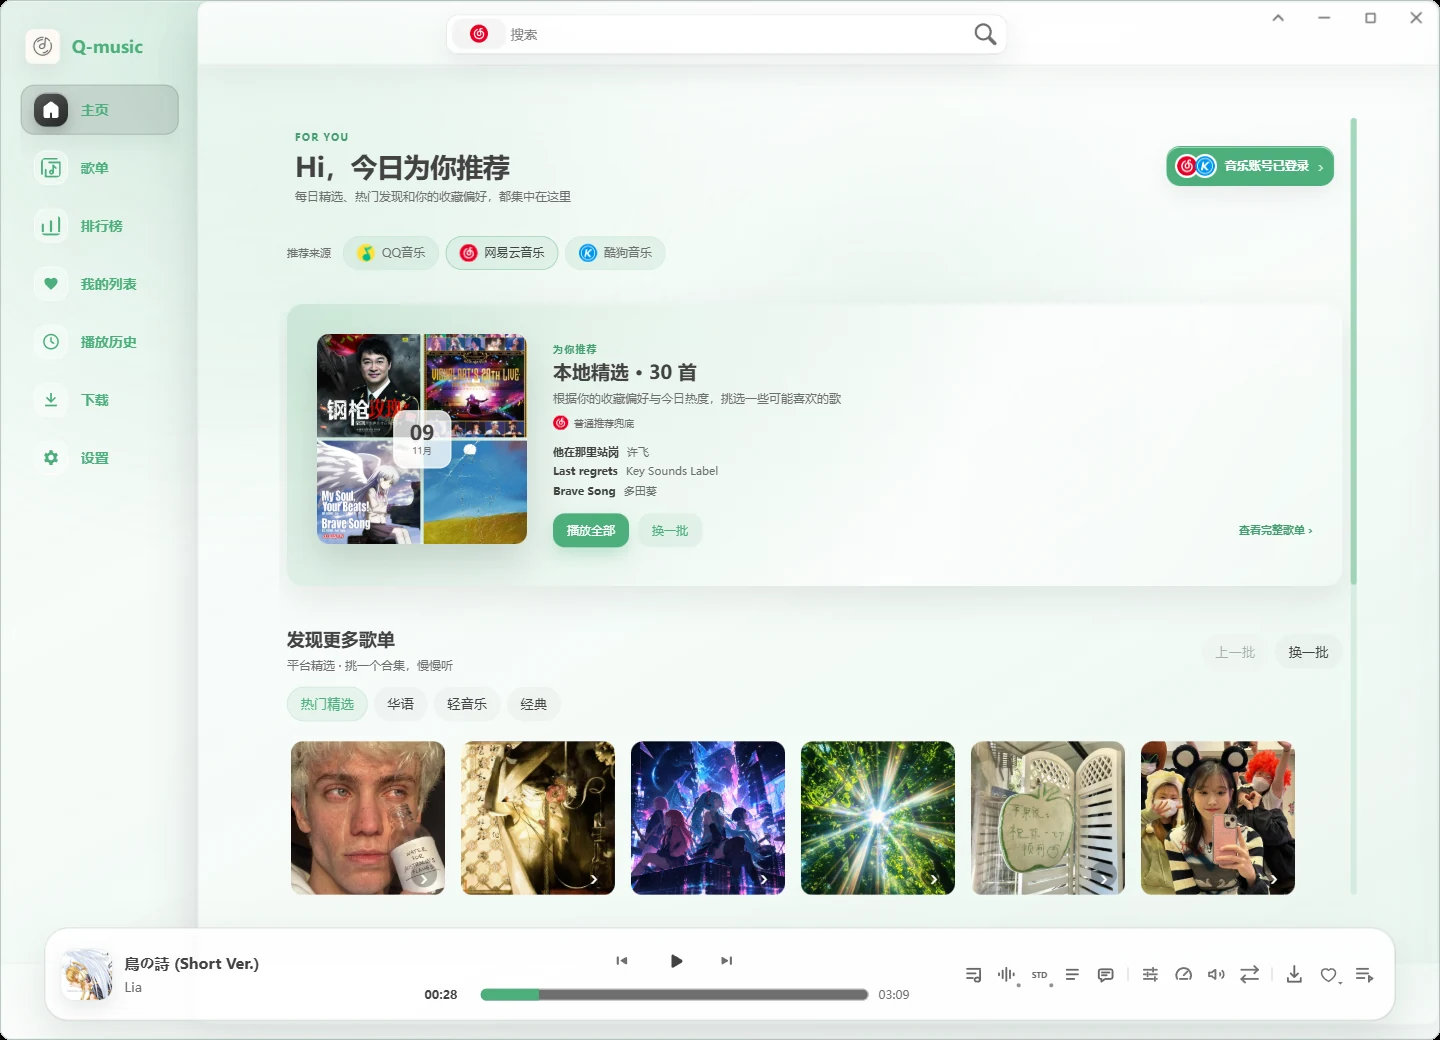
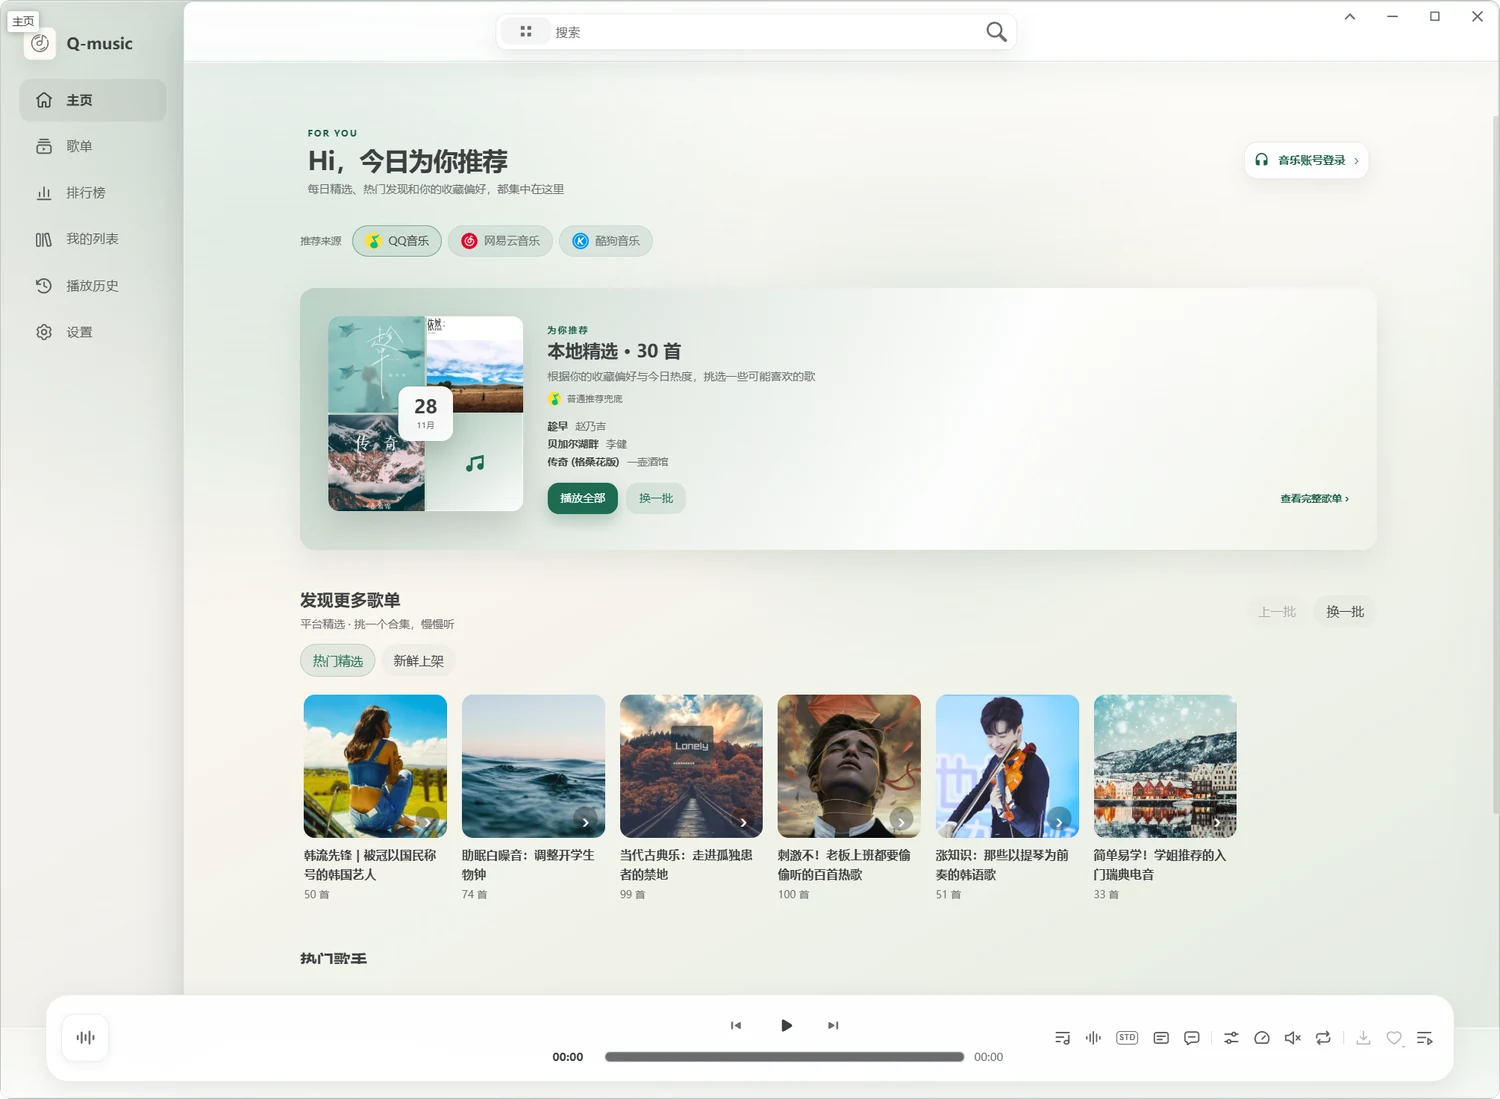
docs: refresh README with desktop and Android screenshots

diff --git a/README.md b/README.md
@@ -4,7 +4,6 @@
 
 <h1 align="center">Q-music</h1>
 
-<p align="center">把喜欢的音乐放在一起。</p>
 <p align="center">基于 LX Music 二次开发，支持 Windows、macOS、Arch Linux 与 Android。</p>
 
 <p align="center">
@@ -16,85 +15,87 @@
 
 <p align="center">
   <a href="https://github.com/Nshpiter/Q-music/releases/latest"><strong>下载最新版</strong></a> ·
-  <a href="#界面预览">界面预览</a> ·
+  <a href="#界面预览">桌面预览</a> ·
+  <a href="#手机上的-q-music">安卓预览</a> ·
   <a href="#开始使用">开始使用</a> ·
   <a href="./publish/changeLog.md">更新日志</a> ·
   <a href="https://github.com/Nshpiter/Q-music/issues">反馈问题</a>
 </p>
 
-Q-music 是基于 LX Music 二次开发的音乐播放器。可以在这里搜索歌曲、整理歌单，也可以登录自己的 QQ 音乐、网易云音乐或酷狗账号，继续听熟悉的收藏和每日推荐。
-
-第一次使用时，请先导入自己的音源，或添加本地音乐。平台账号用于歌单、推荐和收藏，播放与下载仍需要可用音源。
+Q-music 既能搜索多个平台的歌曲，也能接着听自己在 QQ 音乐、网易云音乐和酷狗收藏的歌单。在线听歌需要导入可用音源，听本地音乐可以直接添加文件或文件夹。
 
 ## 界面预览
 
-**桌面首页 · 每日精选与更多歌单**
+首页可以在三个平台之间切换。登录后，点开每日推荐就能看完整曲目，往下翻还能逛精选歌单和热门歌手。想找一首听过的歌，点搜索框就能接着用上次的搜索记录。
 
-![Q-music 桌面首页：平台推荐、每日精选和歌单发现](./doc/images/desktop-home.webp)
+![桌面首页的平台切换、每日精选和播放栏](./doc/images/desktop-home.webp)
 
-<table>
-  <tr>
-    <td width="50%" align="center"><strong>经典极简 · 封面与双语歌词</strong></td>
-    <td width="50%" align="center"><strong>沉浸歌词 · 封面取色与动态氛围</strong></td>
-  </tr>
-  <tr>
-    <td><img src="./doc/images/desktop-classic.webp" alt="经典播放详情，封面、双语歌词及底部播放控制"></td>
-    <td><img src="./doc/images/desktop-immersive.webp" alt="沉浸播放详情，专辑取色背景与歌词"></td>
-  </tr>
-</table>
+**B 站合集也能当歌单听。** 搜索时切到哔哩哔哩，输入视频名、BV 号或链接。多 P 视频可以先选一集，播放后打开队列就能换集，点下一首会接着播下一 P。公开收藏夹、合集和系列也能导入本地。[B 站音频与导入说明](./docs/bilibili.md)
 
-**Android · 经典与沉浸，两种听歌方式**
+### 播放页与歌词
 
-<p align="center">
-  <img src="./doc/images/mobile-classic.webp" width="300" alt="Android 经典播放页，封面、进度及收藏菜单">
-  <img src="./doc/images/mobile-player.webp" width="300" alt="Android 沉浸播放页，封面、播放控制和收藏入口">
-</p>
+经典极简把唱片和歌词并排放，沉浸氛围会用封面的颜色铺满背景。桌面播放页打开「播放页外观 → 歌词排列」，可以在直排和扇形之间切换，扇形的弧度也能调。双语和逐字高亮取决于歌曲提供的歌词。
+
+![桌面扇形歌词，当前唱句居中高亮，前后歌词沿弧线排列](./doc/images/desktop-fan-lyrics.webp)
 
 <details>
-<summary>展开查看平板设置与导航</summary>
+<summary>对照经典极简与沉浸氛围的播放页</summary>
 
-![Android 平板设置：双栏分类与导航位置选择](./doc/images/tablet-settings.webp)
-
-平板与车机支持左侧、右侧和底部导航，可以按自己的使用习惯选择。
+<p align="center">
+  <a href="./doc/images/desktop-classic.webp"><img src="./doc/images/desktop-classic.webp" width="410" alt="桌面经典极简播放页，唱片旁显示原文和翻译"></a>
+  <a href="./doc/images/desktop-immersive.webp"><img src="./doc/images/desktop-immersive.webp" width="410" alt="桌面沉浸播放页，背景随专辑封面取色"></a>
+</p>
 
 </details>
 
-## 可以做什么
+在电脑上做别的事时，可以从播放页外观里的「悬浮窗口」打开置顶的迷你播放器或歌词胶囊。安卓在播放详情点「歌词」，搜一句原词或译文，点结果就能从那句开始听。
 
-### 找歌与发现
+### 收藏和播放队列
 
-- **搜索歌曲**：可以一起搜索多个平台，也可以只选一个。支持综合和音质排序，点开搜索框就能看到历史记录、热搜与搜索建议。
-- **账号与推荐**：登录 QQ 音乐、网易云音乐或酷狗，查看自己的歌单和每日推荐。首页也保留了精选歌单、分类发现与热门歌手，想换个口味时可以逛逛。
-- **B 站音频**：搜索视频、输入 BV 号或链接，也能导入公开收藏夹。支持多 P、合集和系列，加入队列后可以连续播放。
-- **听歌识曲（Android）**：点一下搜索栏的麦克风，听取一小段音乐后自动识别。开始前会说明录音和音频上传的用途。
+点爱心会把歌收进默认本地歌单。想挑歌单，桌面点爱心右下角的小三角，手机长按爱心即可。QQ 音乐、网易云和酷狗的歌曲可以存回同一平台下自己有编辑权限的歌单，B 站视频可以收进本地歌单。
 
-### 听歌与管理
+一次选几首歌点「下一首播放」，就能按顺序插在当前歌曲后面。「稍后播放」会排在后面。从队列里移除一首歌，原歌单里仍然留着它。想找回昨天听的歌，桌面点左栏的「播放历史」，手机从「我的」进入。登录网易云后，网易云来源歌曲的播放记录还可以按实际收听时长回传到账号。
 
-- **播放页与歌词**：经典极简和沉浸歌词两种风格，支持双语、逐字歌词，以及跟随封面取色的动态背景。歌词和翻译是否齐全取决于歌词源。
-- **收藏到自己想要的地方**：点爱心收藏到默认本地歌单。PC 点爱心右下角的三角，手机长按爱心或打开更多菜单，可以改选其他本地歌单，或收藏到已登录平台中自己有编辑权限的歌单。B 站内容可收藏到本地。
-- **播放队列**：从队列移除歌曲，不会删掉原歌单里的收藏。「播放全部」可以替换当前队列，也可以追加到后面；安卓还支持拖动排序。
-- **播放历史**：找回刚听过的歌，也能单条删除、清空或调整保存数量。PC 入口在左侧导航，手机在「我的」。
-- **本地音乐与下载**：导入歌曲或文件夹，管理下载任务和保存位置。删除歌曲文件、清理下载记录都有各自的操作入口。
-- **网易云播放记录**：登录后，播放网易云来源的歌曲时按实际收听时长回传记录；使用第三方音源时仍保留原曲信息。PC 和安卓均支持。
-- **智能换源**：播放失败时按设置尝试备用线路，也可以选择是否自动降低音质、是否跨平台找歌，以及优先保留平台还是音质。
+![桌面深色曲库中的当前曲目、多选框和进度预览](./doc/images/desktop-library-dark.webp)
 
-### 外观与设备
+### 管理和更新音源
 
-- **主题随心调整**：支持浅色、深色、跟随系统和自定义时段切换，切换明暗时保留主题配色；还可调整背景图、透明度和播放风格。
-- **玻璃效果可选**：喜欢通透效果可以打开液态玻璃，更看重流畅度可以关闭模糊或启用流畅模式。安卓默认关闭实时玻璃。
-- **适合不同屏幕**：安卓提供手机、平板和车机布局，设置里可以搜索选项；支持后台播放和系统媒体控制。
-- **桌面歌词**：PC 支持桌面歌词和全局快捷键；安卓提供独立悬浮歌词，也支持词幕。
+桌面打开「设置 → 自定义源管理」，安卓打开「我的 → 设置 → 音源管理」。在线导入会记住脚本链接，从文件导入的音源也能补填链接。点「更新此音源」或「更新全部」就能替换旧脚本，主音源和备用顺序都会保留。希望自动更新的音源可以单独打开开关。
+
+<p align="center">
+  <a href="./doc/images/desktop-sources.webp"><img src="./doc/images/desktop-sources.webp" width="580" alt="桌面音源管理，备用音源示例的编辑链接、自动更新和更新此音源按钮"></a>
+</p>
+
+用多个音源时，可以选「优先播放」或「优先音质」。例如你选了 SQ，主音源只有 HQ，而备用音源能提供 SQ，「优先音质」会先尝试备用音源的 SQ。
+
+### 手机上的 Q-music
+
+从发现页点进每日精选，播放后可以切到沉浸歌词，也可以打开队列搜索、定位当前歌曲或调整顺序。下图依次是这三个界面，点图可看原尺寸。
+
+<p align="center">
+  <a href="./doc/images/mobile-discovery.webp"><img src="./doc/images/mobile-discovery.webp" width="240" alt="Android 发现页，三个推荐平台和每日精选"></a>
+  <a href="./doc/images/mobile-immersive-lyrics.webp"><img src="./doc/images/mobile-immersive-lyrics.webp" width="240" alt="Android 沉浸歌词，演唱中的一句高亮显示"></a>
+  <a href="./doc/images/mobile-queue.webp"><img src="./doc/images/mobile-queue.webp" width="240" alt="Android 播放队列，正在播放的歌曲与队列搜索和排序入口"></a>
+</p>
+
+手机也能听歌识曲。点搜索栏的麦克风，再点「开始听歌识曲」，听完一小段就会自动识别。平板和车机可以把导航放在左侧、右侧或底部。
+
+<details>
+<summary>查看平板的双栏设置和导航选项</summary>
+
+![Android 平板的外观设置与导航位置选择](./doc/images/tablet-settings.webp)
+
+</details>
 
 ## 开始使用
 
-1. **[下载安装包](https://github.com/Nshpiter/Q-music/releases/latest)**。发布页里有各平台的选包和安装说明。
-2. **导入音源**。PC 在「设置 → 自定义源管理」中导入，安卓在「我的 → 设置 → 音源管理」。选好主音源后，也可以添加备用音源；听本地音乐则直接导入歌曲即可。
-3. **开始听歌**。搜索歌曲，或登录平台账号查看自己的歌单和推荐。歌曲菜单里可以收藏、加入队列或下载，手机的下载目录在设置首页就能找到。
-4. **需要换设备时再配置同步或备份**。下面列出了几种方式，按自己的需要选择就好。
+1. 打开[最新正式版](https://github.com/Nshpiter/Q-music/releases/latest)，按发布说明选择适合设备的安装包。
+2. 添加本地音乐，或导入自己的在线音源。登录平台账号后，还能读取个人歌单、推荐和收藏。
+3. 在歌曲菜单里可以收藏、插播或下载。安卓的下载目录在设置首页，桌面的下载任务里分别提供清理记录和删除文件的操作。
+
+在外观设置里可以试试默认的「松烟暖白」和「暖白陶土」。明暗模式支持跟随系统或自定义时段，两种模式下都会保留所选主题的配色。喜欢通透效果可以打开玻璃，想减少模糊和动效可以开流畅模式。
 
 ## 歌单同步、云端曲库与配置备份
-
-同步歌单、存放音乐和迁移设置是三件不同的事：
 
 | 你想做的事 | 使用方式 | 范围 |
 | --- | --- | --- |
